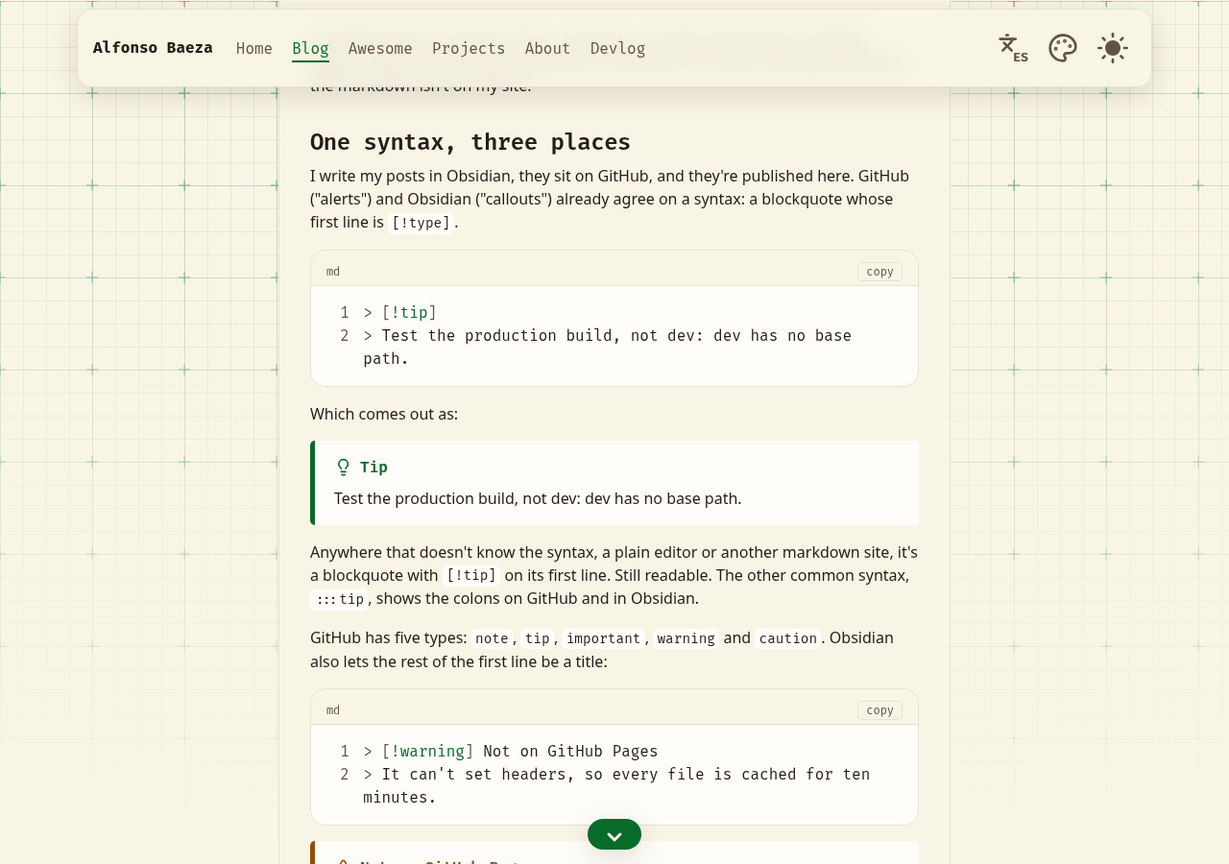
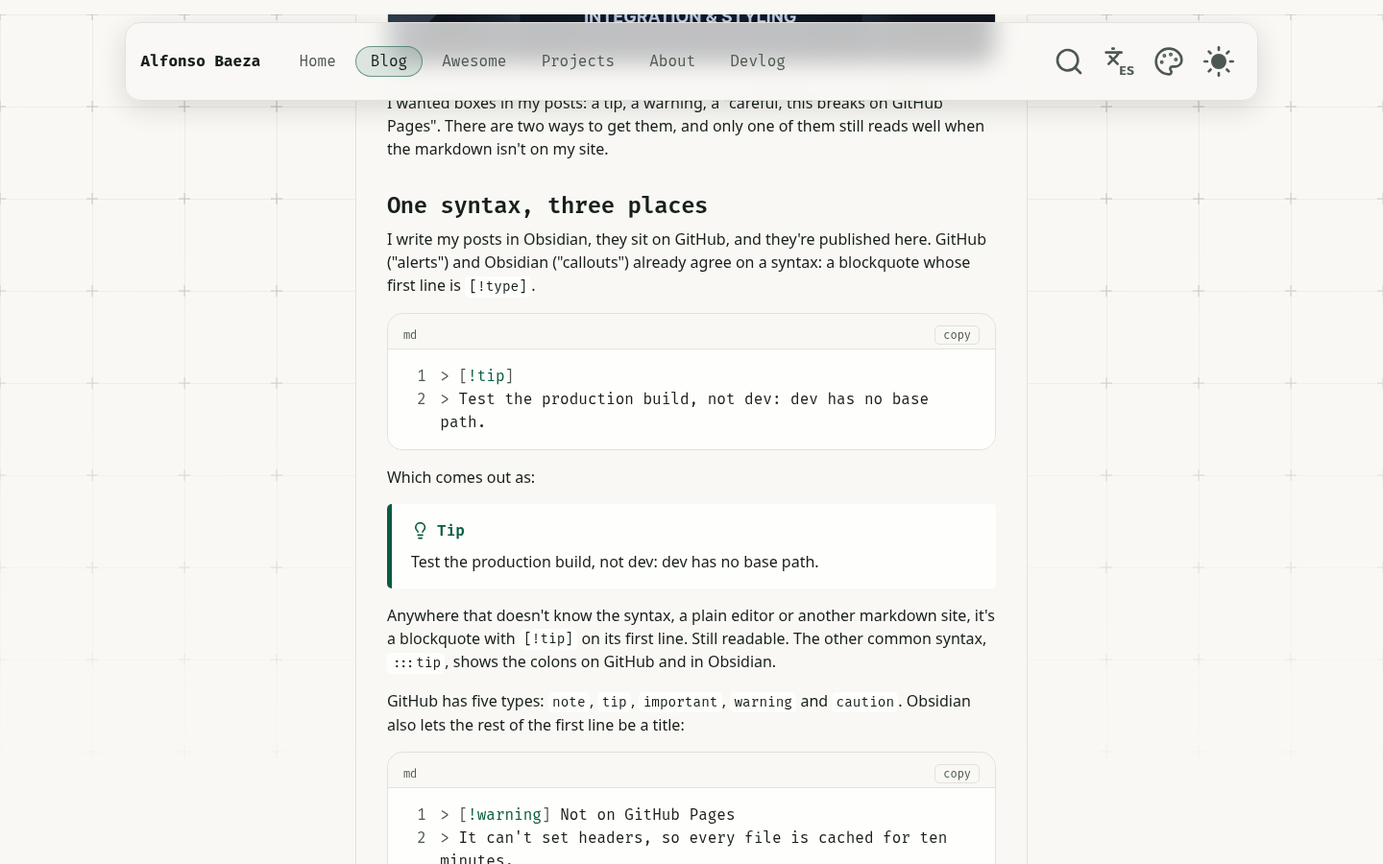
feat(theme): ink green for the light theme, and a quieter grid
Warm white paper, graphite text and a deep ink-green brand instead of cream and
the bright phosphor green; the light grid is the text colour with no minor lines.
Picked from three directions compared with screenshots. Every light pair passes
(muted text 5.09:1 at the spotlight's peak).

diff --git a/src/lib/styles/tokens.css b/src/lib/styles/tokens.css
@@ -13,16 +13,17 @@
 	--ink-7: oklch(21% 0.02 250);
 	--ink-8: oklch(17% 0.018 250);
 
-	/* The light theme's paper and pencil: a warm cream, like a squared engineering pad,
-	   and a warm near-black. Hue 95 is a yellowish cream, 60 a brown-grey: next to the
-	   green they read as paper, where the blue-greys read as a screen. */
-	--paper-0: oklch(99.5% 0.006 95);
-	--paper-1: oklch(97% 0.02 95);
-	--paper-3: oklch(91% 0.028 100);
-	--pencil-1: oklch(24% 0.02 60);
-	--pencil-2: oklch(45% 0.03 60);
+	/* The light theme ("ink green", picked 2026-11-18 from three directions): a soft warm
+	   white, graphite text with a hint of green, and the brand as a deep ink green, like
+	   a fountain pen on good paper. The bright phosphor green is for the dark theme; on
+	   light paper it looked loud. */
+	--paper-0: oklch(99.6% 0.002 95); /* inner panels, code */
+	--paper-1: oklch(98% 0.005 95); /* the page and its sheets */
+	--paper-3: oklch(91% 0.01 95); /* borders */
+	--pencil-1: oklch(23% 0.012 160); /* text */
+	--pencil-2: oklch(45% 0.015 160); /* muted text */
 
-	--green-dark: oklch(46% 0.13 148);
+	--green-dark: oklch(42% 0.085 165); /* the ink green: the light theme's brand */
 	--green-bright: oklch(84% 0.2 148);
 
 	--pink-soft: oklch(76% 0.13 5);
@@ -69,23 +70,17 @@
 	--error: light-dark(var(--red-dark), var(--red-bright));
 
 	/* The blueprint grid behind the page (Blueprint.svelte): faint lines, a minor cell,
-	   a major one every 4 cells, and a "+" at major crossings. Dark: text-colored, like
-	   chalk. Light: the brand color, like the green squares of an engineering pad, so
-	   every color theme's light half gets a grid in its own color.
+	   a major one every 4 cells, and a "+" at major crossings, all in the text colour.
+	   Dark: like chalk. Light: quieter, graphite, and no minor lines at all (with them,
+	   and in the brand colour, it looked busy): only the major lines and the crosses.
 	   Decorative (text never sits on it), so no contrast requirement. */
 	/* Every mix with transparent is in oklab, not oklch: Chrome drops the hue of a
 	   near-grey hex colour in oklch (Tokyo Night's #e6e7ed came out oklch(… none)),
 	   and a missing hue is drawn as 0, a pink tint. oklab has no hue to lose. */
-	--grid-line: light-dark(
-		color-mix(in oklab, var(--brand) 5%, transparent),
-		color-mix(in oklab, var(--text-1) 3%, transparent)
-	);
-	--grid-line-major: light-dark(
-		color-mix(in oklab, var(--brand) 6%, transparent),
-		color-mix(in oklab, var(--text-1) 6%, transparent)
-	);
+	--grid-line: light-dark(transparent, color-mix(in oklab, var(--text-1) 3%, transparent));
+	--grid-line-major: color-mix(in oklab, var(--text-1) 6%, transparent);
 	--grid-mark: light-dark(
-		color-mix(in oklab, var(--brand) 25%, transparent),
+		color-mix(in oklab, var(--text-1) 16%, transparent),
 		color-mix(in oklab, var(--text-1) 18%, transparent)
 	);
 	--grid-size: 1.5rem;
@@ -93,11 +88,10 @@
 	/* The spotlight: the same grid lit in the brand color around the mouse, plus a
 	   glow. Not decorative any more once text sits on it: a lit line runs under the
 	   letters, so it counts as their background. At the spot's center (glow + major
-	   line, the brightest point) --text-2 keeps 4.89:1 dark. Light is softer, because
-	   its grid is brand-coloured already: 3% glow + 10% line + the grid's 6% major line
-	   add up to a little less brand than dark's 4% + 15%, so every theme that passed
-	   before still passes. The header's nav sits on the grid, so this matters;
-	   palettes.test.ts checks every theme, both halves. */
+	   line, the brightest point) --text-2 keeps 4.89:1 dark. Light is softer (3% glow,
+	   10% line), over the grid's own 6% major line in the text colour. The header's nav
+	   sits on the grid, so this matters; palettes.test.ts checks every theme, both
+	   halves, with that whole stack. */
 	--grid-spot-line: light-dark(
 		color-mix(in oklab, var(--brand) 6%, transparent),
 		color-mix(in oklab, var(--brand) 8%, transparent)

diff --git a/src/lib/palettes.test.ts b/src/lib/palettes.test.ts
@@ -60,13 +60,13 @@ describe('palettes', () => {
 		describe.each(['light', 'dark'] as const)('%s', (half) => {
 			const colour = (token: string) => hex(valuesOf(css, token)[half === 'light' ? 0 : 1]);
 			const surfaces = ['surface-1', 'surface-2', 'surface-3'].map(colour);
-			// The spotlight's brightest point (tokens.css), all in the brand colour over the
-			// page. Dark: a 4% glow and a 15% grid line. Light: a 3% glow and a 10% line, over
-			// the grid's own 6% major line (brand-coloured in light).
+			// The spotlight's brightest point (tokens.css). Dark: a 4% glow and a 15% brand
+			// line over the page (the model the dark themes were tuned with). Light: a 3% glow
+			// and a 10% line, over the grid's own 6% major line in the text colour.
 			const brand = colour('brand');
 			const spotlight =
 				half === 'light'
-					? over(brand, 0.1, over(brand, 0.03, over(brand, 0.06, surfaces[0])))
+					? over(brand, 0.1, over(brand, 0.03, over(colour('text-1'), 0.06, surfaces[0])))
 					: over(brand, 0.15, over(brand, 0.04, surfaces[0]));
 			const pairs: [string, RGB[]][] = [
 				['text-1', [...surfaces, spotlight]],

diff --git a/.claude/CLAUDE.md b/.claude/CLAUDE.md
@@ -34,12 +34,13 @@ Alfonso's personal portfolio, built as a **learning project** (Alfonso is a juni
 - **The 404 (2026-11-18, `feat/image-cache`; Alfonso: a random 404 with minigames and animations, after 404s.design):** `src/routes/+error.svelte` (inside the root layout; status, path, section links, `Seo noindex`) picks one variant of `src/lib/projects/not-found/variants.ts` at random in `onMount` (never while rendering: dev SSRs 404s), "Another 404" goes to the next; each variant is a lazy `import()`. Variants: **Breakout** and **Snake** (rules in `breakout.ts`/`snake.ts`, unit-tested, no canvas; `Breakout.svelte`/`Snake.svelte` draw and listen; shared frame `Arcade.svelte` with a `role=status` line), **ASCII wave** (`ascii.ts` builds one string per frame; Fira Code ligatures off) and **Loose dots** (`Particles.svelte`, springs, draws only while moving). All are made of the `digits.ts` bitmap (47 cells). `canvas.ts`: `readColours()` (tokens via a hidden probe), `onColoursChange()`, `fit()` (1 unit = 1 cell), `loop()`, `grid()`. The game canvases are `role="application"` (svelte-ignore with the reason). Reduced motion: animations still, games user-driven. GitHub Pages serves `build/404.html` (adapter fallback, rendered at `/[fallback]`) for any missing path; `hooks.server.ts` adds a bilingual `<noscript>` to it. **Also a project, `/projects/404`** (Alfonso, 2026-11-18): `Gallery.svelte` (radio group, one variant at a time, its `about` text and links to its `files` + `shared` on GitHub). Every project and tool has `source` (a repo path), shown by `ProjectHeader` as "Source code on GitHub" via `sourceUrl()` in `links.ts` (`/tree/main/` for folders, `/blob/main/` for files: links work once merged to main); `sources.test.ts` checks every path exists. Idea sources (404s.design) aren't named, like the toolbox. `e2e/not-found.test.ts`. Devlog `2026-11-18-signing-in-through-a-worker` explains the Worker, the GitHub App and sveltia-cms-auth's script. `vite preview` serves `.svelte-kit/output`, not `build/`: to see `build/admin` use a static server over `build/`.
 - **The CMS on the live site (2026-11-18, same branch; Alfonso: GitHub sign-in through a Worker):** `pnpm build` = site build + `vite build -c src/lib/cms/vite.config.ts` (plain Svelte plugin + enhanced-img, `base: <BASE_PATH>/admin/`, out `build/admin`, ~23 MB of lazy chunks). `src/lib/cms/index.html` is the one page (dev `plugin.ts` serves it with the script path rewritten). `covers.ts` → `covers.hosted.ts` in that build (raw.githubusercontent URLs from `__CMS_COVERS__`, no original covers shipped). Sign-in: `backend.base_url` (commented in `config.yml`) = Sveltia's authenticator Worker with a GitHub App (setup in `src/lib/cms/README.md`, Alfonso creates the Cloudflare and GitHub pieces); access token and local repository work meanwhile. The token lives in `abafdez.github.io`'s storage, shared by every Pages site of the account.
 - **Search (2026-11-18, `feat/image-cache`; Alfonso: an icon in the header that opens a search box):** Pagefind **1.6.0** (devDependency, pinned), run by `pnpm build` after both Vite builds (`pagefind --site build` → `build/pagefind/`, one index per `<html lang>`: en, es-es). Only `data-pagefind-body` elements are indexed: post and Devlog `<article>`s, `ProjectHeader`, the Awesome list header and its category `<section>`s, the About intro; each with `data-pagefind-meta="section:…"` (the result's label). `data-pagefind-ignore` on ArticleHeader's date/reading-time line, `TagList` and the code block's `figcaption`. `src/lib/search.ts` imports `<base>/pagefind/pagefind.js?lang=<lang>` at run time (`@vite-ignore`; a module per language, since Pagefind reads `<html lang>` once and the language switch doesn't reload), `baseUrl` set, `.html` stripped from result URLs. `Search.svelte` (first in the header's toggles): a `popovertarget` button like `PalettePicker`, the panel anchored under it (fixed across the top below 40rem), `<search>` + `type=search` input, `role=status` count, up to 8 results (excerpt via `{@html}`: Pagefind escapes it), `/` opens it, closes on `afterNavigate`. Dev has no index: the box says so. **Animations:** the panel opens/closes with `@starting-style` + `transition-behavior: allow-discrete` on `display`/`overlay` (fade, drop, spring scale from its top corner), a dimmed `::backdrop`, the field's glass swings in, results stagger in (`--index`); all under `prefers-reduced-motion: no-preference`. **A result is a morph card** (`a[data-morph-card]`, title → `data-morph="title"`, excerpt → `description`; `cardLinkingTo()` also matches `a[data-morph-card]`): it flies into the page header. The box stays in the DOM, so `leave(card)` in `morph.ts` (called in the layout's `update()`) unmarks it and closes the box with `data-instant` (no transition, which also cancels the closing one `afterNavigate` started), or the "after" picture would show it and duplicate names would skip the transition; during route transitions the panel is `view-transition-name: search-panel` so it fades out on top of the old page. **e2e and `pnpm preview` now serve `build/` with `scripts/serve.ts`** (GitHub Pages' rules: `x`, `x.html`, `x/index.html`, else `404.html` with 404), not `vite preview`, which serves `.svelte-kit/output` (no `/admin`, no index); `BASE_PATH=/portfolio node scripts/serve.ts` to look by hand. `e2e/search.test.ts`.
+- **Nav links are pills (2026-11-18):** `Nav.svelte`, no underlines; hover = `--surface-2` fill; the current section = `.marker` as a tinted pill (brand 12% + brand 55% border, text `--text-1`), still `view-transition-name: nav-marker` during route transitions, so the pill slides to the new link.
 - **Interface fixes (2026-11-18, Alfonso):** `--content-width: clamp(70rem, 82vw, 96rem)` (was 70rem: narrow full screen; reading pages keep `--reading-width`). **The Devlog uses the body font**: Shantell Sans (`--font-hand`, `src/routes/devlog/+layout.svelte`) removed, package uninstalled; the self-hosted-fonts post has an update note. **Text size** in the theme menu (`PalettePicker.svelte`, button label "Color theme and text size"; its own button style is `.open` so the new buttons don't inherit it or its `anchor-name`): A− / percentage `<output aria-live>` / A+ / Reset; `src/lib/text-size.ts` (`scales` 0.875–1.375, `step()`, `applyScale()`, `localStorage['text-scale']`, tested), `--text-scale` on `<html>` → `html { font-size: calc(var(--text-scale, 1) * 100%) }` (global.css base), restored in `app.html` (only listed values). **Footer panel** (`Footer.svelte`): the floating scroll-to-footer chevron is gone; a faint grip handle fixed at the bottom centre (`aria-hidden`, `tabindex=-1`, `popovertarget`) gets `--near` 0–1 from `pointermove` (last 10rem of the window, rAF, fine pointers only) and grows, lifts, takes the brand colour and shows its label; it fades out as the footer enters (view timeline, only under `@supports`). It and the bar's "About me and hiring" button open `#about-panel`, a bottom-sheet popover (`@starting-style` slide-up, dimmed backdrop, columns stagger in, closes on `afterNavigate`): tagline, who I am (`aboutLead`), hire me (`footerHireText`/`footerHireHow`, Ask on LinkedIn, CV builder link; **Alfonso to review the hiring text**), elsewhere (profiles, repo, built-with line). No contact data beyond the public profiles (the CV stays private). **Then (Alfonso):** text size buttons are Lucide icons (`a-arrow-down`, `a-arrow-up`, `rotate-ccw`); **reading pages zoom on wide screens** (`main[data-composition='reading']`: `zoom` 1.12 from 100rem, 1.25 from 120rem, 1.4 from 150rem; zoom, not font-size, because headings are in rem; the column stays 80ch, 875px at 1920). **The hire panel's top card has five looks** (`src/lib/components/hire/`, `looks.ts` lists lazy imports; Alfonso: build them all, roll on every open; **the 3D tilt is one look, not on all**): `Terminal.svelte` (types `$ whoami` / `cat hire.txt` / `contact --linkedin` at ~150 chars/s, photo pixelated 6→48 px on a canvas then sharp, CTA appears at the end, typed text aria-hidden + a visually-hidden copy), `Spotlight.svelte` (photo in a conic ring turned by a registered `--ring-angle`, a brand grid lit under the pointer, counters 15+ / 3 / 2 count up), `BusinessCard.svelte` (front photo/name/role, back hire text + links; flips in on open, Turn button with `aria-pressed`, click on the card too, hidden face `inert`), `OpenToWork.svelte` (pulsing status dot, photo glitches with `#palette-rgb-split` from PalettePicker on hover, `magnet()` CTA with six CSS sparkles), `IdCard.svelte` (the only one with `tilt(max, reach)` from `hire/tilt.ts`: `--rx --ry --px --py --tilt`; listens on the whole page and leans from `reach` px away (smoothstep), measures the **untilted** box (offsetParent rect + `offsetLeft/Top/Width/Height`, so `.stage` is `position: relative`; measuring the tilted card bounced at the edges), eases every frame in script (`1 - exp(-dt * 8)`, no CSS transition); `preserve-3d`, parts at `translateZ` depths, a foil sheen and light at the pointer, a chip; flat on touch / reduced motion; its CSS is in the component, no global class). `Footer.svelte`: `look` starts random on the first open, `+1` per open (`ontoggle`); no "Another look" button (Alfonso removed it). The panel is `overflow: hidden auto` (a turned or sliding card must never make it scroll sideways; checked at 1440 and 320 mid-tilt). **The three columns each have an effect** (Alfonso): a 1px ring over the border (`section::before` masked `content-box exclude`): Who I am = a light following the pointer (`spotlight` attachment on `.columns`), Hire me = a beam running round (conic gradient, registered `--beam`, plain brand border under reduced motion); Elsewhere = link rows with **icons** (GitHub from Simple Icons via `BrandIcon`; LinkedIn has no icon anywhere (removed from Simple Icons at LinkedIn's request, Lucide has no brands), so a Lucide briefcase; `folder-git-2` for the site's code) that slide, pop the icon and show an arrow on hover. Reduced motion: no typing, counting, ring, beam, tilt, sparkles, pops or glitch. **Then:** the bar's "About me and hiring" button is a brand pill with `user-round` + bobbing `chevron-up` and a light band sweeping across every 5 s (`shine`, shared with the panel's main button); the Elsewhere column has the same pointer light as Who I am (`section:is(:nth-child(1), :nth-child(3))`); panel buttons are `.button` (brand) / `.button.secondary` (outlined) with Lucide icons (More about me: `user-round` + nudging `arrow-right`; Ask on LinkedIn: `message-square` + shine); the CV builder link is gone. **Email button:** `email = { user, domain }` in `links.ts`, empty = no button; joined in `onMount` into a `mailto:` so the address isn't in the HTML; with it set, the hire text says "LinkedIn or by email" (`footerHireHowEmail`). **GitHub's noreply address can't be used (it receives nothing); the address must be one made for this (a forwarding alias), never Alfonso's personal one. Alfonso to choose it.**
 - **The customizing guide (2026-11-18, Alfonso):** `docs/customizing/` (README index + 8 chapters: stack, how it fits together, colours/type/layout, effects catalogue, transitions, recipes, adding things, sources with a Devlog map), linked from the root `README.md`; Devlog `2026-11-18-a-guide-to-customizing-this-site`; copied to the vault as `10 Projects/Portfolio/Customizing guide/` (hub + 8 notes, chapter links as wikilinks). **When an effect, token, library or checklist changes, update its chapter too** (and the vault copy when it's a big change). The repo is proprietary (`LICENSE.txt`): the guide doesn't invite forks.
 - **Alfonso's notes for later (2026-11-03, end of day; cards on the vault board):**
   - ~~**Wayfinding**~~: done 2026-11-04, merged in PR #14 (Bitácora `2026-11-04-breadcrumbs`, draft `breadcrumbs-from-route-ids`). `Breadcrumbs.svelte` at the top of `<main>` (root layout) on pages inside a section: `Home / <section> / <crumb>`; `sections` (the nav's list) and `isInside(href, routeId)` live in `links.ts`; nested routes return `crumb` in their load (`App.PageData.crumb`). The nav marks the section with `aria-current="true"` on pages inside it. **Compare `page.route.id`, never `page.url.pathname === resolve(…)`:** while prerendering `resolve()` gives relative links (`paths.relative`), so that match never reached the HTML (the nav's marker was JS-only until this fix). Possible Phase 9 follow-up: `BreadcrumbList` structured data.
   - ~~**Background spotlight** makes text hard to read~~: done 2026-11-04, merged in PR #14 (Bitácora `2026-11-04-spotlight-contrast`, draft `decoration-under-text-needs-contrast`; Alfonso skipped the interview). A lit line under a letter is its background: muted text was 1.89:1. The spotlight colors are tokens now (`--grid-spot-line` 8%, `-major` 15%, `-glow` 4%; `--text-2` ≥ 4.83:1 at the brightest point, both themes), measured by compositing on a 1×1 canvas (the contrast checker only does opaque surfaces). Light barely shows it: revisit with the light theme. A theme that changes `--brand` must re-check them.
-  - ~~**The light theme feels dull**~~: done 2026-11-18 (`feat/image-cache`): direction B of `design/light-theme-directions.md`, the engineering pad. `tokens.css` has `--paper-0/1/3` (warm cream, hue 95–100) and `--pencil-1/2` (warm near-black, hue 60) for the light half of the surfaces and text; the light grid is the **brand** colour (5% / 6% major / 25% marks), so every palette's light half gets a grid in its own colour; the light spotlight is softer (3% glow, 6%/10% lines) so grid + spotlight stay under dark's 4% + 15% (`palettes.test.ts` models it); `--shadow-float` light is 14% of `--text-1`. Default light: every pair ≥ 4.5:1 (brand 4.63 lowest), measured in the browser.
+  - ~~**The light theme feels dull**~~: done 2026-11-18, **second round: "ink green"** (Alfonso found the first round's grid messy and the bright green awful; three directions compared on a private artifact page with screenshots, A won): `--paper-0/1/3` warm white `oklch(99.6% 0.002 95)` / `98% 0.005 95` / `91% 0.01 95`, `--pencil-1/2` graphite `oklch(23% 0.012 160)` / `45% 0.015 160`, `--green-dark` (the light brand) `oklch(42% 0.085 165)`; light grid in the **text colour** with **no minor lines** (major 6%, crosses 16%); `palettes.test.ts` models the light spotlight over that 6% text-coloured line (the dark model is unchanged: adding the grid line there fails Dracula, Gruvbox, Solarized… dark, a question for later). Measured: muted 5.09:1 at the spotlight peak, brand 5.6:1. First round (superseded): `tokens.css` has `--paper-0/1/3` (warm cream, hue 95–100) and `--pencil-1/2` (warm near-black, hue 60) for the light half of the surfaces and text; the light grid is the **brand** colour (5% / 6% major / 25% marks), so every palette's light half gets a grid in its own colour; the light spotlight is softer (3% glow, 6%/10% lines) so grid + spotlight stay under dark's 4% + 15% (`palettes.test.ts` models it); `--shadow-float` light is 14% of `--text-1`. Default light: every pair ≥ 4.5:1 (brand 4.63 lowest), measured in the browser.
   - **Easter egg / flair idea (maybe a later project):** GitHub contribution graphs as a game, ported to Svelte. References: [pacman-contribution-graph](https://github.com/abozanona/pacman-contribution-graph), [snake from the contribution grid](https://github.com/marketplace/actions/generate-snake-game-from-github-contribution-grid), [isometric 3D contribution graphs](https://github.com/Spectrewolf8/GitHub-Contributions-Isometric-3D-Graphs-Embed). Before porting: check each licence (keep it and credit). Snake is a generic genre, fine; for the Pac-Man one, keep the idea (something eating the grid) but with our own character and look, e.g. the mascot, not Pac-Man's. The 3D graph is a visualisation. Needs the contribution data at build time (GitHub API) and must respect reduced motion. Optional later: experience (v2), a sticky CV preview on wide screens. Open quick checks (Alfonso left before answering): print step — why Header's print rule isn't in global.css; why `currentTarget` is kept before the `await`; validation step — why the message is outside the `<label>`; why not `validationMessage`. Personal CV data (contact, employers, dates) is typed in or imported from Alfonso's own JSON, kept in the browser; it never goes in the repo or the build.
 - **What Phase 5 built** (`/about`, merged in PR #12, 2026-11-03). **The CV stays private** (phone, email, employers): never commit it or put its contact data, employer names or dates on the site; only skills go public. `/cv` was removed; nav "About". **Then Phase 5.5, a CV builder** (plan in learning-path.md: a `/projects/cv` tool, job profile → ATS-friendly CV via print CSS; personal data typed in or imported from JSON, kept in `localStorage`, never in the repo). The `2026-11-03-*` Bitácora entries have the details:
   - **Skills are data in `content/skills.yaml`** (Alfonso edits it): groups → skills with `logo` (Simple Icons slug) or `icon` (Lucide name), `level` 1–4, `profiles` (ids declared at the top: web, support, mainframe), `note`, `evidence` (entry/tool/list/url). `src/lib/skills/skills.server.ts` reads and checks it at build time (fails naming the skill) and turns icons into `IconData` (`{ logo: slug }` or a Lucide `node` from the plain `lucide` devDependency); `/about/+page.server.ts` returns `skillData`. `skills.ts` keeps the client-side types, `levels` and `evidenceHref()`. Logos are drawn from **`/logos.svg`**, a prerendered `+server.ts` sprite (`prerender = true` in the endpoint and `prerender.entries: ['*', '/logos.svg']` in `vite.config.ts`), with `<use href="{resolve('/logos.svg')}#slug">` in `Icon.svelte`; no path is in the page HTML.

diff --git a/content/blog/posts/2026-11-18-a-light-theme-that-looks-like-paper/2026-11-18-a-light-theme-that-looks-like-paper.es.md b/content/blog/posts/2026-11-18-a-light-theme-that-looks-like-paper/2026-11-18-a-light-theme-that-looks-like-paper.es.md
@@ -1,35 +1,50 @@
 ---
 title: Un tema claro que parece papel
-description: Mi tema claro era el oscuro con las luces encendidas, frío y apagado. Ahora es papel crema con texto de lápiz y una cuadrícula del color de marca, y un test se asegura de que la cuadrícula nunca deje el texto por debajo de 4,5:1.
+description: Mi tema claro era el oscuro con las luces encendidas. El primer arreglo quedó demasiado chillón; comparar tres direcciones con capturas dio con la buena, verde tinta sobre blanco cálido, y un test se asegura de que la cuadrícula nunca deje el texto por debajo de 4,5:1.
 reviewed: false
 ---
 
-Diseñé este sitio empezando por el modo oscuro, y el tema claro quedó en segundo plano: los mismos neutros gris azulados y fríos, aclarados. Funcionaba, pero era apagado. Hace semanas probé tres direcciones y las dejé en espera; esta semana elegí una, el **cuaderno de ingeniería**: papel crema cálido, texto color lápiz y una cuadrícula verde, como el papel cuadriculado de ingeniería.
+Diseñé este sitio empezando por el modo oscuro, y el tema claro quedó en segundo plano: los mismos neutros gris azulados y fríos, aclarados. Funcionaba, pero era apagado. Así se arregló, en dos rondas, porque la primera tampoco funcionó.
 
-![Un artículo con el tema claro nuevo: página y hoja color crema, texto oscuro y cálido, bloques de código y un aviso sobre paneles casi blancos, y una cuadrícula verde tenue a los lados](./light-post.png 'Papel crema, texto de lápiz y una cuadrícula verde en los márgenes')
+## Primera ronda: demasiado chillón
 
-## Papel y lápiz como tokens
+Hace semanas probé tres direcciones y las dejé en espera. Elegí una, el **cuaderno de ingeniería**: papel crema, texto color lápiz y la cuadrícula de plano en el verde de marca, como el papel cuadriculado de ingeniería. Por separado quedaba bien. En las páginas reales estaba recargado: líneas menores verdes, líneas mayores verdes y cruces verdes por todas partes, y el verde fósforo brillante, perfecto en una terminal oscura, quedaba estridente sobre el crema.
 
-Solo cambió la mitad clara de unos pocos tokens semánticos. Unas primitivas nuevas describen los materiales:
+## Comparar con capturas
 
-```css
---paper-0: oklch(99.5% 0.006 95); /* paneles interiores, código */
---paper-1: oklch(97% 0.02 95); /* la página y sus hojas */
---paper-3: oklch(91% 0.028 100); /* bordes */
---pencil-1: oklch(24% 0.02 60); /* texto */
---pencil-2: oklch(45% 0.03 60); /* texto atenuado */
+El color es difícil de juzgar con una descripción, así que la segunda ronda comparó capturas reales. Cada dirección son solo unos pocos tokens semánticos (página, paneles, bordes, texto, texto atenuado, marca, cuadrícula), así que se puede probar en la página real inyectándolos:
+
+```js
+const style = document.createElement('style');
+style.textContent = `:root[data-theme='light'] { --surface-1: #f9f8f5; --brand: #095b41; … }`;
+document.head.append(style);
 ```
 
-y `--surface-1/2/3` y `--text-1/2` apuntan a ellas en claro, sin tocar sus valores oscuros. El tono 95 es un crema amarillento y el 60 un gris parduzco: junto al verde parecen papel y grafito, mientras que los gris azulados parecen una pantalla. No cambió ningún componente, porque los componentes solo usan tokens semánticos.
+Tres direcciones, cada una capturada en la portada y en un artículo con código y avisos: **verde tinta** (la misma identidad, más tranquila), **plano** (tinta azul de Prusia sobre papel frío, un plano técnico de verdad) y **grafito** (blanco, un acento esmeralda y solo las cruces de la cuadrícula). Cada valor se comprobó en contraste antes de renderizar nada. Ganó el verde tinta.
 
-## Una cuadrícula del color de cada tema
+![Un artículo con el tema claro verde tinta: hoja blanca cálida, texto grafito oscuro, un aviso en verde oscuro y código sobre paneles casi blancos, con una cuadrícula tenue a los lados](./light-post.png 'Verde tinta: blanco cálido, texto grafito y una cuadrícula discreta en los márgenes')
 
-La cuadrícula de plano detrás de la página era el color del texto a un pequeño porcentaje, en los dos modos. En claro ahora es el color de **marca**, y eso es lo que la hace parecer un cuaderno de ingeniería. Como es `var(--brand)` y no un verde fijo, la mitad clara de cada tema de color tiene una cuadrícula de su propio color: violeta en Catppuccin, azul en Tokyo Night.
+## El verde tinta como tokens
+
+Solo cambió la mitad clara de unos pocos tokens. Las primitivas describen los materiales:
+
+```css
+--paper-0: oklch(99.6% 0.002 95); /* paneles interiores, código */
+--paper-1: oklch(98% 0.005 95); /* la página y sus hojas */
+--paper-3: oklch(91% 0.01 95); /* bordes */
+--pencil-1: oklch(23% 0.012 160); /* texto */
+--pencil-2: oklch(45% 0.015 160); /* texto atenuado */
+--green-dark: oklch(42% 0.085 165); /* la marca, como tinta de pluma */
+```
+
+`--surface-1/2/3`, `--text-1/2` y `--brand` apuntan a ellas en claro y mantienen sus valores oscuros. El papel es un blanco con una calidez mínima, no crema; el texto es grafito con un toque del tono de la marca, para que los neutros y el verde vayan juntos. El verde es más oscuro y mucho menos saturado que el fósforo del tema oscuro: la misma familia, otro material. No cambió ningún componente, porque los componentes solo usan tokens semánticos.
+
+## Una cuadrícula más tranquila
+
+En claro la cuadrícula perdió las líneas menores y volvió al color del texto en lugar del de marca: líneas mayores tenues al 6 % y cruces al 16 %. Ahora se lee como una textura en los bordes de la página, no como un patrón que compite con ella.
 
 ## Decoración que cuenta como fondo
 
-En este sitio el texto de tamaño normal nunca va sobre la cuadrícula (va sobre una hoja), pero el menú de la cabecera sí, y el puntero ilumina la cuadrícula a su alrededor. Medido en el punto más brillante del foco, una línea de cuadrícula de marca al 9 % bajo la línea del foco al 15 % dejaba el texto gris del menú en 4,42:1, por debajo del 4,5:1 que necesita.
+En este sitio el texto de tamaño normal nunca va sobre la cuadrícula (va sobre una hoja), pero el menú de la cabecera sí, y el puntero ilumina la cuadrícula a su alrededor. Así que el test de los temas compone la pila real en el punto más brillante del foco: la página, la línea mayor de la cuadrícula, un brillo de marca del 3 % y una línea de marca del 10 %. Medido en el navegador, el texto atenuado del menú mantiene ahí 5,09:1 y la marca 5,6:1; sobre las superficies normales, los colores del código y de los avisos superan todos 6:1.
 
-En lugar de reajustar cinco temas que estaban al límite, suavicé el foco en claro: un brillo del 3 % y líneas al 10 % sobre una línea de cuadrícula al 6 % suman algo menos de color de marca que el 4 % + 15 % del oscuro, así que todo lo que aprobaba sigue aprobando. El test de los temas compone ahora esa pila para la mitad clara de cada tema, así que un tema que no pase no puede entrar.
-
-Una trampa de CSS por el camino: `light-dark()` solo acepta colores, así que `color-mix(in oklab, var(--brand) light-dark(6%, 8%), transparent)` no es válido. Hay que escribir la mezcla entera dos veces, una por modo.
+Una trampa de CSS de la primera ronda: `light-dark()` solo acepta colores, así que `color-mix(in oklab, var(--brand) light-dark(6%, 8%), transparent)` no es válido. Hay que escribir la mezcla entera dos veces, una por modo.

diff --git a/content/blog/posts/2026-11-18-a-light-theme-that-looks-like-paper/2026-11-18-a-light-theme-that-looks-like-paper.md b/content/blog/posts/2026-11-18-a-light-theme-that-looks-like-paper/2026-11-18-a-light-theme-that-looks-like-paper.md
@@ -3,35 +3,50 @@ title: A light theme that looks like paper
 draft: true
 date: 2026-11-18
 tags: [css, design-tokens, color, accessibility]
-description: My light theme was the dark one with the lights on, cold and dull. Now it's cream paper with pencil text and a grid in the brand colour, and a test makes sure the grid never takes text below 4.5:1.
+description: My light theme was the dark one with the lights on. The first fix was too loud; comparing three directions with screenshots found the right one, ink green on warm white, and a test makes sure the grid never takes text below 4.5:1.
 ---
 
-I designed this site dark first, and the light theme was an afterthought: the same cold blue-grey neutrals, lightened. It worked and it was dull. Weeks ago I'd previewed three directions for it and put them on hold; this week I picked one, the **engineering pad**: warm cream paper, pencil-coloured text and a grid in green, like squared engineering paper.
+I designed this site dark first, and the light theme was an afterthought: the same cold blue-grey neutrals, lightened. It worked and it was dull. This is how it got fixed, in two rounds, because the first one didn't work either.
 
-![A post in the new light theme: cream page and sheet, dark warm text, code blocks and a tip callout on near-white panels, a faint green grid at the sides](./light-post.png 'Cream paper, pencil text, a green grid in the margins')
+## Round one: too loud
 
-## Paper and pencil as tokens
+Weeks ago I'd previewed three directions and put them on hold. I picked one, the **engineering pad**: cream paper, pencil-coloured text, and the blueprint grid in the brand green, like squared engineering paper. On its own it looked fine. On the real pages it was busy: green minor lines, green major lines and green crosses everywhere, and the bright phosphor green that's perfect on a dark terminal looked garish on cream.
 
-Only the light half of a few semantic tokens changed. New primitives describe the materials:
+## Comparing with screenshots
 
-```css
---paper-0: oklch(99.5% 0.006 95); /* inner panels, code */
---paper-1: oklch(97% 0.02 95); /* the page and its sheets */
---paper-3: oklch(91% 0.028 100); /* borders */
---pencil-1: oklch(24% 0.02 60); /* text */
---pencil-2: oklch(45% 0.03 60); /* muted text */
+Colour is hard to judge from a description, so the second round compared real screenshots. Every direction is just a few semantic tokens (page, panels, borders, text, muted text, brand, grid), so a direction can be tried on the live page by injecting them:
+
+```js
+const style = document.createElement('style');
+style.textContent = `:root[data-theme='light'] { --surface-1: #f9f8f5; --brand: #095b41; … }`;
+document.head.append(style);
 ```
 
-and `--surface-1/2/3` and `--text-1/2` point at them in light, keeping their dark values. Hue 95 is a yellowish cream and 60 a brown-grey: next to the green they read as paper and graphite, where blue-greys read as a screen. No component changed, because components only use semantic tokens.
+Three directions, each screenshotted on the home page and on a post with code and callouts: **ink green** (the same identity, calmer), **blueprint** (Prussian-blue ink on cool paper, a real technical drawing) and **graphite** (white, an emerald accent, only the grid's crosses). Every value was checked for contrast before anything was rendered. Ink green won.
 
-## A grid in every theme's colour
+![A post in the ink-green light theme: warm white sheet, dark graphite text, a deep green tip callout and code on near-white panels, a faint grid at the sides](./light-post.png 'Ink green: warm white, graphite text, a quiet grid in the margins')
 
-The blueprint grid behind the page used to be the text colour at a few percent, in both modes. In light it's now the **brand** colour, and that's what makes it look like an engineering pad. Because it's `var(--brand)` and not a fixed green, every colour theme's light half gets a grid in its own colour: violet in Catppuccin, blue in Tokyo Night.
+## Ink green as tokens
+
+Only the light half of a few tokens changed. The primitives describe the materials:
+
+```css
+--paper-0: oklch(99.6% 0.002 95); /* inner panels, code */
+--paper-1: oklch(98% 0.005 95); /* the page and its sheets */
+--paper-3: oklch(91% 0.01 95); /* borders */
+--pencil-1: oklch(23% 0.012 160); /* text */
+--pencil-2: oklch(45% 0.015 160); /* muted text */
+--green-dark: oklch(42% 0.085 165); /* the brand, like fountain-pen ink */
+```
+
+`--surface-1/2/3`, `--text-1/2` and `--brand` point at them in light and keep their dark values. The paper is a white with the faintest warmth, not cream; the text is graphite with a hint of the brand's hue, so the neutrals and the green belong together. The green is darker and much less saturated than the dark theme's phosphor: the same family, a different material. No component changed, because components only use semantic tokens.
+
+## A quieter grid
+
+The grid lost its minor lines in light, and went back to the text colour instead of the brand: faint major lines at 6% and crosses at 16%. It now reads as a texture at the edges of the page rather than a pattern competing with it.
 
 ## Decoration that counts as background
 
-Text at body size never sits on the grid on this site (it sits on a sheet), but the header's nav does, and the pointer lights the grid up around it. Measured at the spotlight's brightest point, a 9% brand grid line under the 15% spotlight line took the grey nav text to 4.42:1, under the 4.5:1 it needs.
+Text at body size never sits on the grid on this site (it sits on a sheet), but the header's nav does, and the pointer lights the grid up around it. So the theme test composites the real stack at the spotlight's brightest point: the page, the grid's major line, a 3% brand glow and a 10% brand line. Measured in the browser, the muted nav text keeps 5.09:1 there and the brand 5.6:1; on plain surfaces, code and callout colours are all above 6:1.
 
-Rather than retune five themes that had been tuned right at the edge, I made the light spotlight softer: 3% glow and 10% lines over a 6% grid line add up to slightly less brand colour than dark's 4% + 15%, so anything that passed before still passes. The theme test now composites that stack for every theme's light half, so a theme that fails can't be merged.
-
-One CSS trap on the way: `light-dark()` only takes colours, so `color-mix(in oklab, var(--brand) light-dark(6%, 8%), transparent)` is invalid. The whole mix has to be written twice, once per mode.
+One CSS trap from round one: `light-dark()` only takes colours, so `color-mix(in oklab, var(--brand) light-dark(6%, 8%), transparent)` is invalid. Write the whole mix twice, once per mode.

diff --git a/docs/customizing/03-colours-type-and-layout.md b/docs/customizing/03-colours-type-and-layout.md
@@ -6,7 +6,7 @@ Everything visual that isn't motion: design tokens, light and dark, the colour t
 
 A design token is a named value, here a CSS custom property, that components use instead of a raw value. All of them are in `src/lib/styles/tokens.css`, in two levels:
 
-1. **Primitives**: the actual colours, named after what they are. `--ink-0` … `--ink-8` (blue-greys, the dark theme), `--paper-0/1/3` and `--pencil-1/2` (the light theme's cream and graphite), `--green-dark` / `--green-bright` (the brand), a dark and a bright step per syntax hue (`--violet-*`, `--blue-*`, `--amber-*`, `--teal-*`, `--red-*`), and the window lights.
+1. **Primitives**: the actual colours, named after what they are. `--ink-0` … `--ink-8` (blue-greys, the dark theme), `--paper-0/1/3` and `--pencil-1/2` (the light theme's warm white and graphite), `--green-dark` / `--green-bright` (the brand: a deep ink green for light, the bright phosphor green for dark), a dark and a bright step per syntax hue (`--violet-*`, `--blue-*`, `--amber-*`, `--teal-*`, `--red-*`), and the window lights.
 2. **Semantic tokens**: what a colour is _for_. Components only use these.
 
 | Token                                                            | Used for                                                                        |
@@ -44,7 +44,7 @@ To restyle the site, change semantic tokens. To change one colour everywhere, ch
 - The tokens are declared on `:root` **and** on every `[data-theme]` element. A custom property holding `light-dark()` is resolved where it's declared, so without the second selector a part of the page with a different `data-theme` (the contrast checker draws both themes side by side) would still inherit the root's colours.
 - `--dark` is `0` or `1`, for things `light-dark()` can't do because they aren't colours (a transform, an opacity): `calc(var(--dark) * …)`.
 - Printing always uses the light theme (`@media print` at the end of `tokens.css`).
-- The site was designed dark first; light is the "engineering pad": cream paper, pencil text and a grid in the brand colour. `design/light-theme-directions.md` has the three directions that were tried.
+- The site was designed dark first. Light is "ink green" (picked 2026-11-18 from three directions): a soft warm white, graphite text, a deep ink-green brand, and a quiet grid with no minor lines (only faint major lines and the crosses, in the text colour). `design/light-theme-directions.md` has the history: the first engineering-pad version (cream and a brand-coloured grid) looked busy and loud.
 
 ## Colour themes ("palettes")
 

diff --git a/design/light-theme-directions.md b/design/light-theme-directions.md
@@ -1,6 +1,6 @@
 # Light theme directions (2026-11-07)
 
-**Picked 2026-11-18: B, the engineering pad**, in `src/lib/styles/tokens.css` (`--paper-*`, `--pencil-*`), with the grid in the brand colour for every palette and a softer light spotlight. The values below are the preview; the shipped ones are in tokens.css.
+**2026-11-18, second round: "ink green" shipped.** B (the engineering pad) went in first, with cream paper and the grid in the brand colour, and Alfonso found the grid messy and the bright green awful on light paper. Three new directions were compared with screenshots (A ink green, B blueprint blue, C graphite with crosses only); A won: warm white `oklch(98% 0.005 95)`, panels `oklch(99.6% 0.002 95)`, borders `oklch(91% 0.01 95)`, text `oklch(23% 0.012 160)`, muted `oklch(45% 0.015 160)`, brand `oklch(42% 0.085 165)`, and a graphite grid with no minor lines (major 6%, crosses 16%). The values below are the first round's previews; the shipped ones are in tokens.css.
 
 The light theme feels dull: it was adapted from the dark one, with the same cold blue-grey neutrals at low chroma, a dark forest green (`46% 0.13 148`) used only for text, cards barely different from the page, a grey grid you can hardly see, and a heavy header shadow.
 

diff --git a/content/bitacora/2026-11-18-an-engineering-pad-light-theme/2026-11-18-an-engineering-pad-light-theme.es.md b/content/bitacora/2026-11-18-an-engineering-pad-light-theme/2026-11-18-an-engineering-pad-light-theme.es.md
@@ -17,6 +17,8 @@ reviewed: false
 - Cinco temas con nombre estaban ajustados al límite; suavizar el foco los mantuvo a todos aprobados sin retocar ninguno.
 - `light-dark()` solo acepta colores: `color-mix(…, var(--brand) light-dark(6%, 8%), …)` no es válido. Hay que escribir la mezcla entera dos veces.
 
+- **Más tarde, el mismo día:** la cuadrícula quedaba recargada y el verde brillante, horrible sobre el crema. Comparé tres direcciones nuevas con capturas (verde tinta, azul plano, grafito) y elegí **verde tinta**: un blanco cálido suave, texto grafito, la marca como un verde tinta oscuro (`oklch(42% 0.085 165)`) y una cuadrícula sin líneas menores, solo líneas mayores tenues y cruces del color del texto. Todos los pares en claro aprueban (texto atenuado a 5,09:1 en el punto más brillante del foco, marca a 5,6:1).
+
 ## Siguiente
 
 - Pasar Lighthouse al tema claro nuevo, que no llegué a hacer.

diff --git a/content/bitacora/2026-11-18-an-engineering-pad-light-theme/2026-11-18-an-engineering-pad-light-theme.md b/content/bitacora/2026-11-18-an-engineering-pad-light-theme/2026-11-18-an-engineering-pad-light-theme.md
@@ -18,6 +18,8 @@ tags: [css, design-tokens, accessibility, color]
 - Five named themes had been tuned right at the edge; softening the spotlight kept them all passing without retuning any.
 - `light-dark()` only takes colours: `color-mix(…, var(--brand) light-dark(6%, 8%), …)` is invalid. Write the whole mix twice instead.
 
+- **Later the same day:** the grid looked messy and the bright green awful on cream. I compared three new directions with screenshots (ink green, blueprint blue, graphite) and picked **ink green**: a soft warm white, graphite text, the brand as a deep ink green (`oklch(42% 0.085 165)`), and a grid with no minor lines, only faint major lines and crosses in the text colour. Every light pair passes (muted text 5.09:1 at the spotlight's peak, brand 5.6:1).
+
 ## Next
 
 - Lighthouse on the new light theme, which I didn't run.
